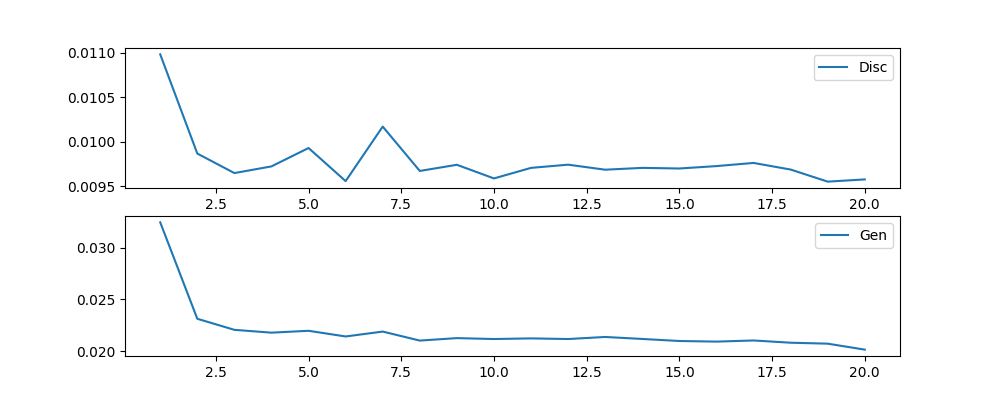
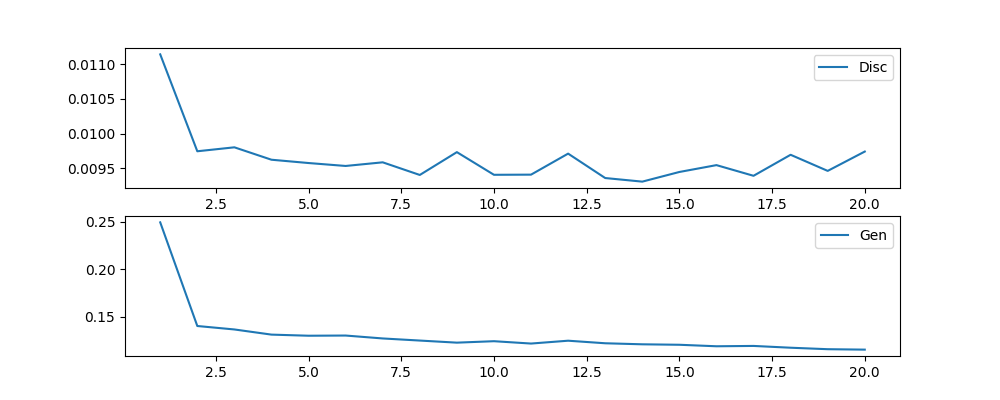
reverted disc changes

diff --git a/discriminator_model.py b/discriminator_model.py
@@ -58,7 +58,7 @@ class Discriminator(nn.Module):
         self.model = nn.Sequential(*layers)
 
     def forward(self, x, y):
-        return self.forward_v2(x, y)
+        return self.forward_v1(x, y)
 
     def forward_v2(self, x, y):
         y = torch.nn.functional.interpolate(y, x.shape[2:], mode='bilinear')
